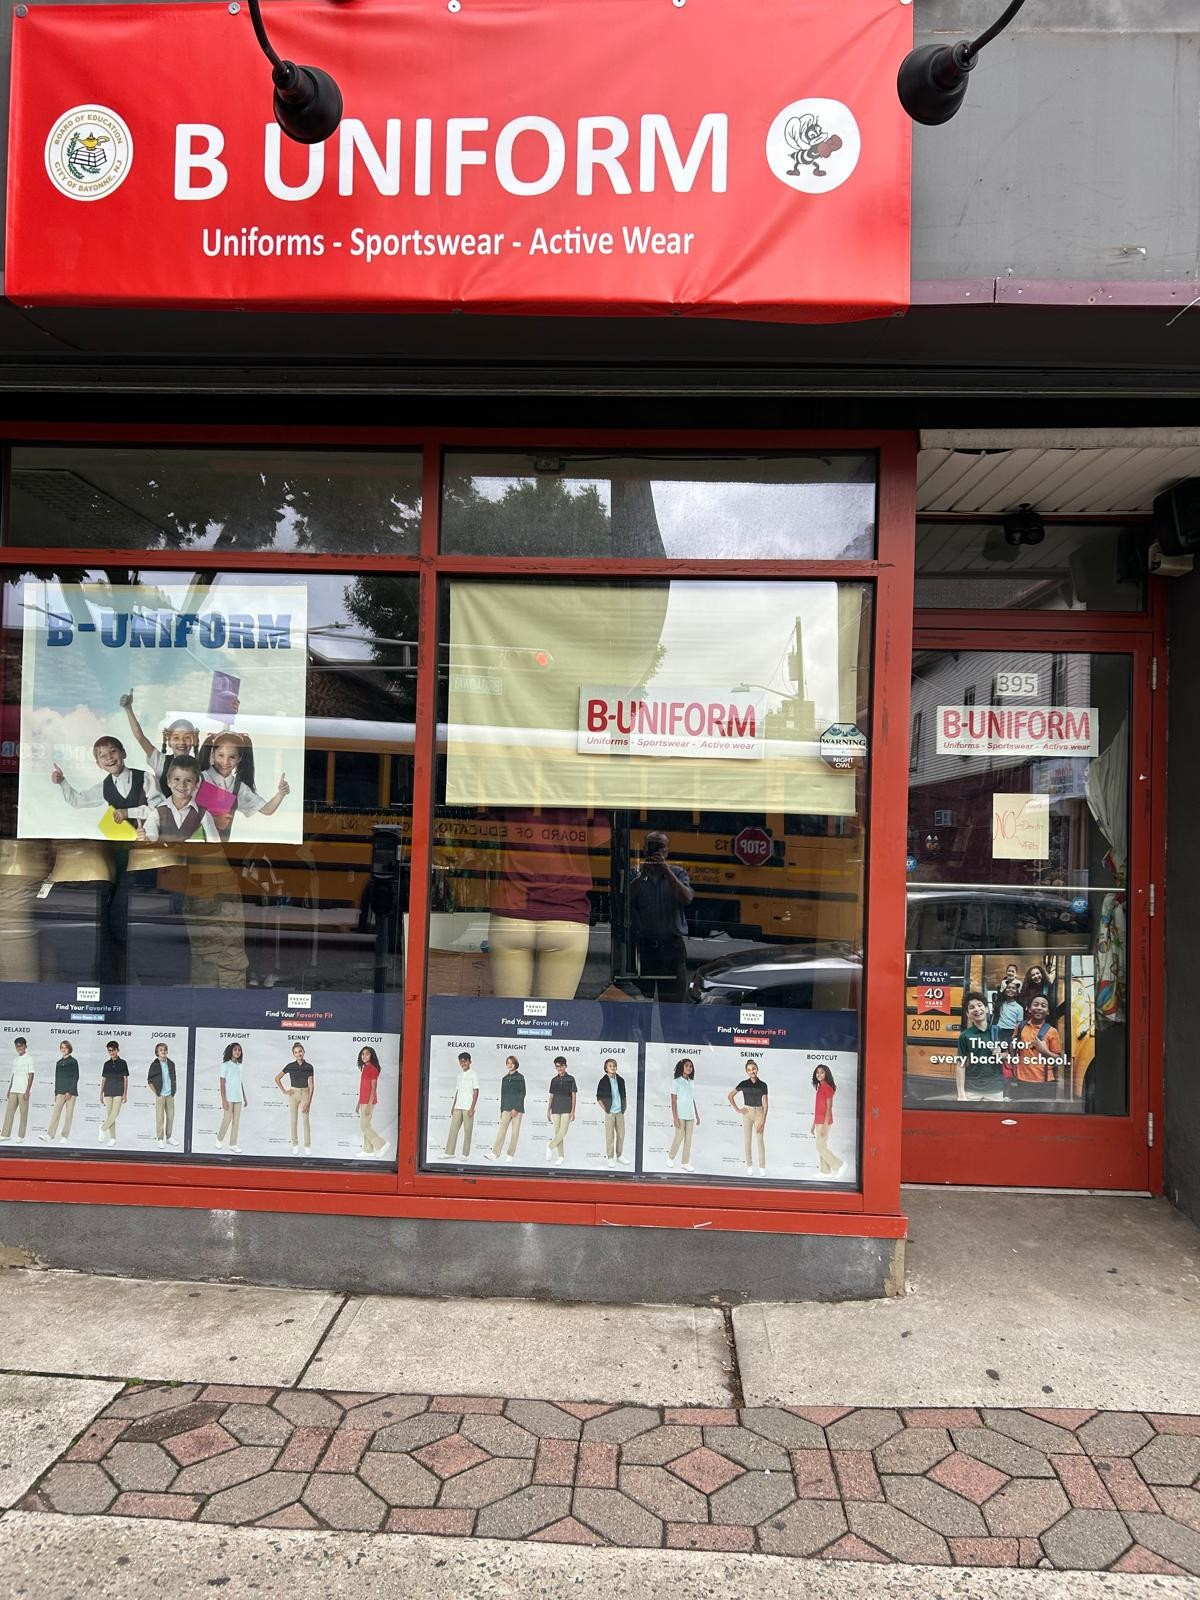
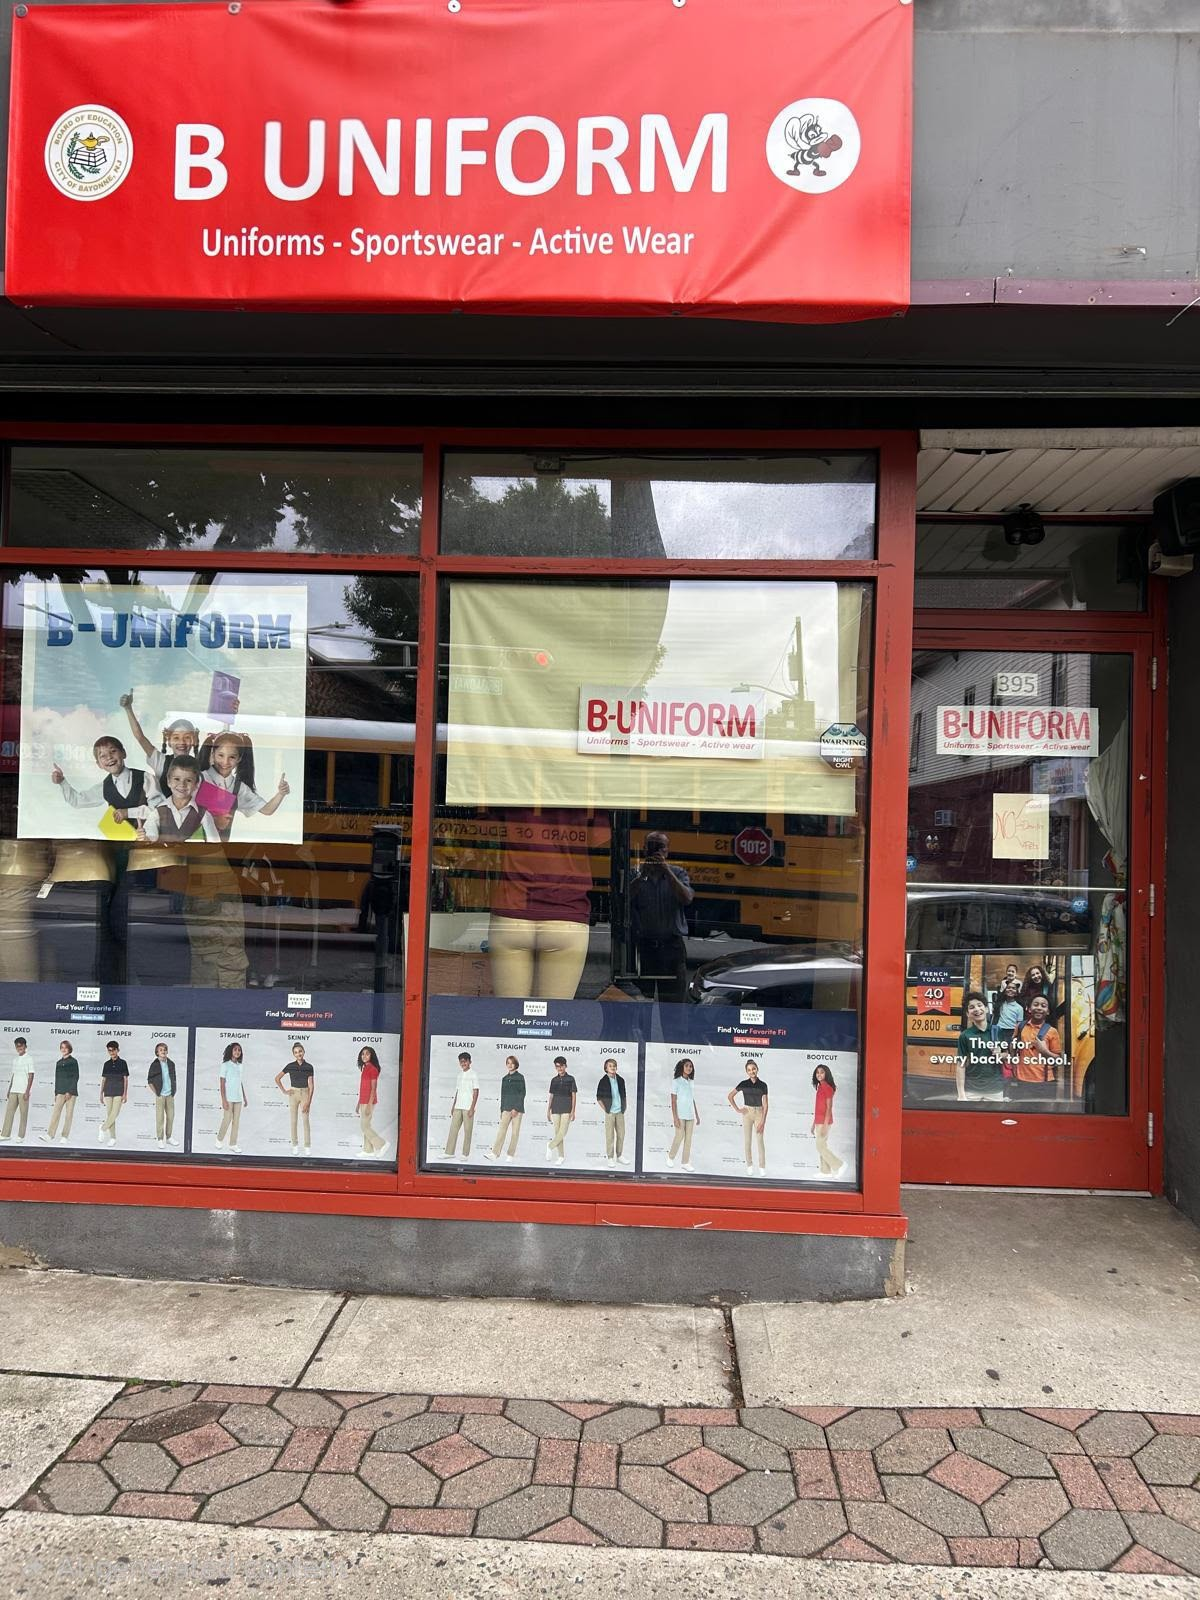
Diverge the About/homepage photos: flag on homepage, new storefront on About
Homepage "Our Story" section reverts to the original flag photo (restored
from git history as gallery-1-flag.jpg). About page keeps the storefront
photo, updated to the owner's newly-edited version with the two black wall
fixtures removed above the awning.

Changed region(s): [[0.74, 0.0, 0.8633, 0.0938], [0.185, 0.0, 0.3083, 0.0938]]

diff --git a/index.html b/index.html
@@ -164,7 +164,7 @@
 <section style="background:var(--color-light)">
   <div class="container">
     <div class="story-split reveal">
-      <img src="assets/img/site/gallery-5.jpg" alt="B-Uniform storefront at 395 Broadway, Bayonne, NJ">
+      <img src="assets/img/site/gallery-1-flag.jpg" alt="Interior of the B-Uniform store, racks of uniforms with an American flag displayed near the checkout counter">
       <div>
         <span class="eyebrow">Our Story</span>
         <h2>Built on quality, made for resellers</h2>
